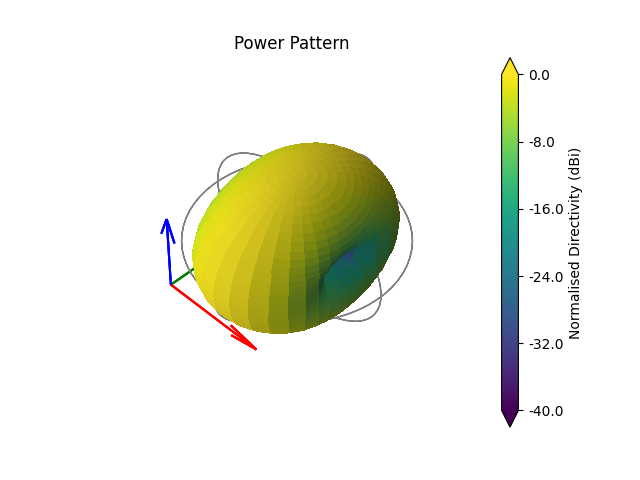
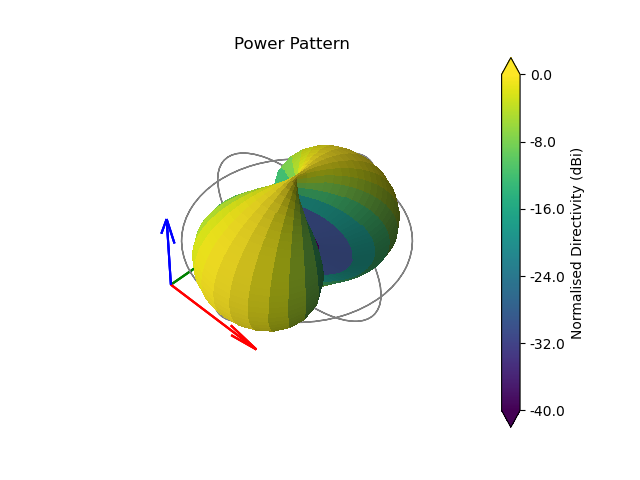
Updating documentation

diff --git a/docs/examples/06_farfield_polarisation.py b/docs/examples/06_farfield_polarisation.py
@@ -30,7 +30,7 @@ elev_res = 37
 wavelength = 3e8 / 10e9
 
 # %%
-# Generating consistent Horn Antenna and
+# Generating consistent point source to explore farfield polarisations, and rotating the source
 # -------------------------------------------
 
 import lyceanem.geometry.targets as TL
@@ -49,38 +49,125 @@ blockers=structures([None])
 point_antenna=antenna_structures(blockers, aperture)
 
 
+from lyceanem.models.frequency_domain import calculate_farfield
+
 desired_E_axis = np.zeros((1, 3), dtype=np.complex64)
 desired_E_axis[0, 0] = 1.0
-u_pattern=point_antenna.generate_farfield(desired_E_axis, wavelength)
+Etheta, Ephi = calculate_farfield(
+    point_antenna.export_all_points(),
+    point_antenna.export_all_structures(),
+    desired_E_axis,
+    az_range=np.linspace(-180, 180, az_res),
+    el_range=np.linspace(-90, 90, elev_res),
+    wavelength=wavelength,
+    farfield_distance=20,
+    elements=True,
+    project_vectors=True,
+)
+from lyceanem.base_classes import antenna_pattern
+
+u_pattern = antenna_pattern(
+    azimuth_resolution=az_res, elevation_resolution=elev_res
+)
+u_pattern.pattern[:, :, 0] = Etheta
+u_pattern.pattern[:, :, 0] = Ephi
 u_pattern.display_pattern(desired_pattern='Power')
 
 
 desired_E_axis = np.zeros((1, 3), dtype=np.complex64)
 desired_E_axis[0, 1] = 1.0
-v_pattern=point_antenna.generate_farfield(desired_E_axis, wavelength)
+Etheta, Ephi = calculate_farfield(
+    point_antenna.export_all_points(),
+    point_antenna.export_all_structures(),
+    desired_E_axis,
+    az_range=np.linspace(-180, 180, az_res),
+    el_range=np.linspace(-90, 90, elev_res),
+    wavelength=wavelength,
+    farfield_distance=20,
+    elements=True,
+    project_vectors=True,
+)
+
+v_pattern = antenna_pattern(
+    azimuth_resolution=az_res, elevation_resolution=elev_res
+)
+v_pattern.pattern[:, :, 0] = Etheta
+v_pattern.pattern[:, :, 0] = Ephi
 v_pattern.display_pattern(desired_pattern='Power')
 
 
 desired_E_axis = np.zeros((1, 3), dtype=np.complex64)
 desired_E_axis[0, 2] = 1.0
-n_pattern=point_antenna.generate_farfield(desired_E_axis, wavelength)
+Etheta, Ephi = calculate_farfield(
+    point_antenna.export_all_points(),
+    point_antenna.export_all_structures(),
+    desired_E_axis,
+    az_range=np.linspace(-180, 180, az_res),
+    el_range=np.linspace(-90, 90, elev_res),
+    wavelength=wavelength,
+    farfield_distance=20,
+    elements=True,
+    project_vectors=True,
+)
+
+n_pattern = antenna_pattern(
+    azimuth_resolution=az_res, elevation_resolution=elev_res
+)
+n_pattern.pattern[:, :, 0] = Etheta
+n_pattern.pattern[:, :, 0] = Ephi
 n_pattern.display_pattern(desired_pattern='Power')
 
 point_antenna.rotate_antenna(o3d.geometry.get_rotation_matrix_from_axis_angle(np.radians(np.asarray([0.0,0.0,90.0]))))
 
 desired_E_axis = np.zeros((1, 3), dtype=np.complex64)
 desired_E_axis[0, 0] = 1.0
-u_pattern=point_antenna.generate_farfield(desired_E_axis, wavelength)
+Etheta, Ephi = calculate_farfield(
+    point_antenna.export_all_points(),
+    point_antenna.export_all_structures(),
+    desired_E_axis,
+    az_range=np.linspace(-180, 180, az_res),
+    el_range=np.linspace(-90, 90, elev_res),
+    wavelength=wavelength,
+    farfield_distance=20,
+    elements=True,
+    project_vectors=True,
+)
+u_pattern.pattern[:, :, 0] = Etheta
+u_pattern.pattern[:, :, 0] = Ephi
 u_pattern.display_pattern(desired_pattern='Power')
 
 
 desired_E_axis = np.zeros((1, 3), dtype=np.complex64)
 desired_E_axis[0, 1] = 1.0
-v_pattern=point_antenna.generate_farfield(desired_E_axis, wavelength)
+Etheta, Ephi = calculate_farfield(
+    point_antenna.export_all_points(),
+    point_antenna.export_all_structures(),
+    desired_E_axis,
+    az_range=np.linspace(-180, 180, az_res),
+    el_range=np.linspace(-90, 90, elev_res),
+    wavelength=wavelength,
+    farfield_distance=20,
+    elements=True,
+    project_vectors=True,
+)
+v_pattern.pattern[:, :, 0] = Etheta
+v_pattern.pattern[:, :, 0] = Ephi
 v_pattern.display_pattern(desired_pattern='Power')
 
 
 desired_E_axis = np.zeros((1, 3), dtype=np.complex64)
 desired_E_axis[0, 2] = 1.0
-n_pattern=point_antenna.generate_farfield(desired_E_axis, wavelength)
+Etheta, Ephi = calculate_farfield(
+    point_antenna.export_all_points(),
+    point_antenna.export_all_structures(),
+    desired_E_axis,
+    az_range=np.linspace(-180, 180, az_res),
+    el_range=np.linspace(-90, 90, elev_res),
+    wavelength=wavelength,
+    farfield_distance=20,
+    elements=True,
+    project_vectors=True,
+)
+n_pattern.pattern[:, :, 0] = Etheta
+n_pattern.pattern[:, :, 0] = Ephi
 n_pattern.display_pattern(desired_pattern='Power')

diff --git a/lyceanem/models/frequency_domain.py b/lyceanem/models/frequency_domain.py
@@ -2,7 +2,8 @@ import numpy as np
 import copy
 import open3d as o3d
 
-from ..base_types import scattering_t
+from ..base_types import scattering_t, triangle_t
+from ..base_classes import antenna_structures
 from ..utility.math_functions import calc_dv_norm
 from ..electromagnetics import empropagation as EM
 from ..geometry import geometryfunctions as GF
@@ -143,7 +144,12 @@ def calculate_farfield(
     sink_cloud.normals = o3d.utility.Vector3dVector(sink_normals)
     num_sources = len(np.asarray(aperture_coords.points))
     num_sinks = len(np.asarray(sink_cloud.points))
-    environment_triangles = antenna_solid.triangles_base_raycaster()
+    if isinstance(antenna_solid,antenna_structures):
+        environment_triangles = antenna_solid.triangles_base_raycaster()
+    else:
+        print("no structures")
+        environment_triangles = np.empty((0), dtype=triangle_t)
+
     if project_vectors:
         conformal_E_vectors = EM.calculate_conformalVectors(
             desired_E_axis, np.asarray(aperture_coords.normals), antenna_axes
@@ -493,7 +499,12 @@ def calculate_scattering(
     num_sources = len(np.asarray(aperture_coords.points))
     num_sinks = len(np.asarray(sink_coords.points))
 
-    environment_triangles = antenna_solid.triangles_base_raycaster()
+    if antenna_solid.solids[0] is None:
+        print("no structures")
+        environment_triangles=np.empty((0), dtype=triangle_t)
+    else:
+        environment_triangles = antenna_solid.triangles_base_raycaster()
+
     if not multiE:
         if project_vectors:
             conformal_E_vectors = EM.calculate_conformalVectors(

diff --git a/lyceanem/base_classes.py b/lyceanem/base_classes.py
@@ -461,7 +461,10 @@ class antenna_structures(object3d):
 
         objects = copy.deepcopy(self.structures.solids)
         for item in range(len(objects)):
-            objects[item]=objects[item].transform(self.pose)
+            if objects[item] is None:
+                print("Structure does not exist")
+            else:
+                objects[item]=objects[item].transform(self.pose)
 
         return objects
     def farfield_distance(self, freq):

diff --git a/docs/source/auto_examples/index.rst b/docs/source/auto_examples/index.rst
@@ -53,27 +53,6 @@ A selection of examples of LyceanEM features
 
 .. raw:: html
 
-    <div class="sphx-glr-thumbcontainer" tooltip="This example uses the frequency domain lyceanem.models.frequency_domain.calculate_farfield func...">
-
-.. only:: html
-
- .. figure:: /auto_examples/images/thumb/sphx_glr_06_farfield_polarisation_thumb.png
-     :alt: Modelling Different Farfield Polarisations
-
-     :ref:`sphx_glr_auto_examples_06_farfield_polarisation.py`
-
-.. raw:: html
-
-    </div>
-
-
-.. toctree::
-   :hidden:
-
-   /auto_examples/06_farfield_polarisation
-
-.. raw:: html
-
     <div class="sphx-glr-thumbcontainer" tooltip="Aperture Projection as a technique is based upon Hannan&#x27;s formulation of the gain of an apertur...">
 
 .. only:: html
@@ -92,6 +71,27 @@ A selection of examples of LyceanEM features
    :hidden:
 
    /auto_examples/01_aperture_projection
+
+.. raw:: html
+
+    <div class="sphx-glr-thumbcontainer" tooltip="This example uses the frequency domain lyceanem.models.frequency_domain.calculate_farfield func...">
+
+.. only:: html
+
+ .. figure:: /auto_examples/images/thumb/sphx_glr_06_farfield_polarisation_thumb.png
+     :alt: Modelling Different Farfield Polarisations
+
+     :ref:`sphx_glr_auto_examples_06_farfield_polarisation.py`
+
+.. raw:: html
+
+    </div>
+
+
+.. toctree::
+   :hidden:
+
+   /auto_examples/06_farfield_polarisation
 
 .. raw:: html
 

diff --git a/docs/source/auto_examples/sg_execution_times.rst b/docs/source/auto_examples/sg_execution_times.rst
@@ -5,10 +5,10 @@
 
 Computation times
 =================
-**00:40.039** total execution time for **auto_examples** files:
+**00:34.058** total execution time for **auto_examples** files:
 
 +-----------------------------------------------------------------------------------------------------------------------+-----------+--------+
-| :ref:`sphx_glr_auto_examples_06_farfield_polarisation.py` (``06_farfield_polarisation.py``)                           | 00:40.039 | 0.0 MB |
+| :ref:`sphx_glr_auto_examples_06_farfield_polarisation.py` (``06_farfield_polarisation.py``)                           | 00:34.058 | 0.0 MB |
 +-----------------------------------------------------------------------------------------------------------------------+-----------+--------+
 | :ref:`sphx_glr_auto_examples_01_aperture_projection.py` (``01_aperture_projection.py``)                               | 00:00.000 | 0.0 MB |
 +-----------------------------------------------------------------------------------------------------------------------+-----------+--------+
